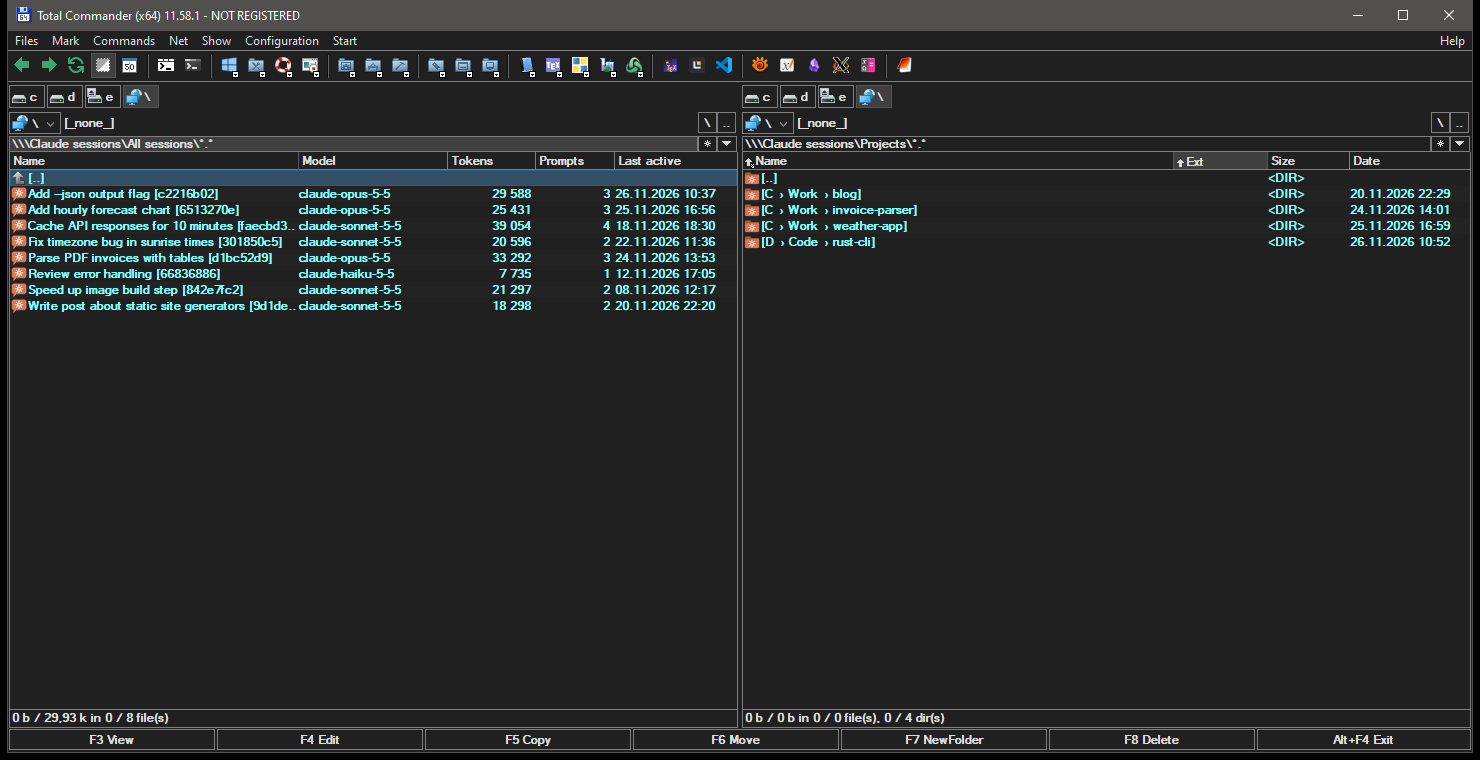
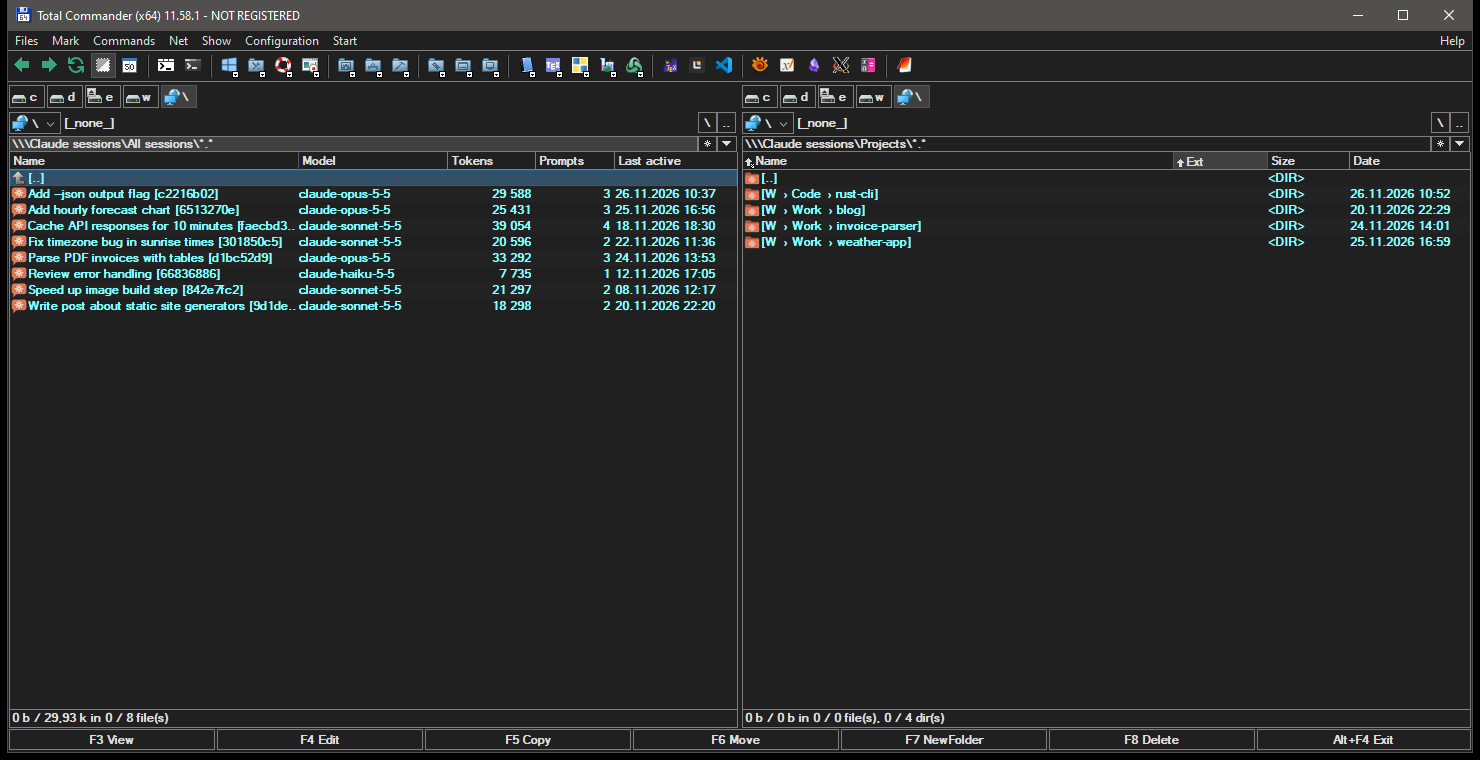
README: detailed file system section with screenshots (root, All sessions, Alt+Enter menu) and the Lister screenshot

diff --git a/README.md b/README.md
@@ -11,13 +11,27 @@
 Claude Code (Anthropic's CLI) saves every conversation as a `*.jsonl` file in its `projects` folder. Those files are large, unreadable by eye and have no names. **ClaudeSessions** makes them usable inside Total Commander. It is **one DLL that works as three plugins**: copy it as `.wlx64` (Lister), `.wfx64` (file system) or `.wdx64` (content). Total Commander loads only the functions it needs from each copy. 32-bit (`.wlx/.wfx/.wdx`) and 64-bit builds are included. Only system DLLs are used, no other software is required. Freeware (closed source).
 
 ### File system plugin "Claude sessions" (WFX)
-A virtual folder in *Network Neighborhood* (the "Network" button of the drive bar).
-- **Finds the Claude Code data by itself**: `CLAUDE_CONFIG_DIR`, a `Programs\Claude\data` layout, `%USERPROFILE%\.claude`, or `Path=` in the ini.
-- **Two folders**: **All sessions** (every session in one list; sort by date to see the latest first) and **Projects** with **one subfolder per project**, named after the real project path (`D › Projects › my-app`); inside it the sessions as `Session title [id].jsonl` (sort by date for the latest first).
-- **Columns**: prompts, model, date, size; plus Title, Started, LastActive, Project, Id and token counts (Tokens, OutputTokens, CacheReadTokens) for your own column sets (other content plugins work there too). Info is read quickly (head and tail of the file) and cached; the prompt count (needs the whole file) is calculated in the background.
-- **Enter = resume the session**: opens a terminal in the project folder and runs `claude --resume <session id>` (Windows Terminal if present, otherwise cmd). Configurable: terminal, launcher, or your own command line with `{cwd} {id} {claude}`. Enter can also be set to copy instead.
-- **F3** shows the conversation, **F5** copies the `.jsonl` (or a Markdown version with `ExportMd=1`), **Alt+Enter** opens a small menu: go to the real project folder, resume, properties.
-- **F8** moves a session to `sessions-trash` next to `projects` (restorable; Total Commander asks first). Nothing is deleted for good, renamed or moved otherwise.
+A virtual folder in *Network Neighborhood* (the "Network" button of the drive bar, or `\\\Claude sessions` in the command line). It **finds the Claude Code data by itself**: `CLAUDE_CONFIG_DIR`, a `Programs\Claude\data` layout, `%USERPROFILE%\.claude`, or `Path=` in the ini.
+
+**The root** has two folders with their own icons: **All sessions** and **Projects**. Inside **Projects** there is one folder per project, named after the real project path (`W › Work › weather-app` for `W:\Work\weather-app`); inside it the sessions of that project. Every session is shown as `Session title [first 8 characters of the id].jsonl`, so you see what a conversation was about instead of a bare id.
+
+![Root of the file system and the sessions of one project](https://raw.githubusercontent.com/sergiokapone/tc-claudesessions/main/screenshots/screenshot-fs-root-en.png)
+
+**All sessions** lists every session of every project in one place: sort by date (or by *Last active*) to find the latest conversation wherever it was started. The fields of the content plugin work as columns here (and so do other content plugins): below a column set with *Model*, *Tokens*, *Prompts* and *Last active*; the right panel shows the project folders.
+
+![All sessions with a custom column set; the Projects folder](https://raw.githubusercontent.com/sergiokapone/tc-claudesessions/main/screenshots/screenshot-fs-dark-en.png)
+
+Available fields: Title, Started, LastActive, Messages (prompts), Project, Model, Id, Tokens, OutputTokens, CacheReadTokens. Info is read quickly (head and tail of the file) and cached; the prompt and token counts need the whole file and are calculated in the background. To make a column set: *Configuration › Options › Custom columns › New*, then add fields from the `claudesessions` plugin. (Tip: with the *Ext* column hidden, Total Commander may show `..` in the first custom column; put a text column such as Model first.)
+
+**Keys inside the file system**
+- **Enter** resumes the session: opens a terminal in the project folder and runs `claude --resume <session id>` (Windows Terminal if present, otherwise cmd). Configurable: terminal, launcher, or your own command line with `{cwd} {id} {claude}`; Enter can also be set to copy instead.
+- **Alt+Enter** opens a small menu: **Go to the project folder** (the active panel jumps to the real folder the session was started in), **Resume the session**, **Properties** (title, project, model, dates, prompts, file).
+
+![Alt+Enter menu on a session](https://raw.githubusercontent.com/sergiokapone/tc-claudesessions/main/screenshots/screenshot-fs-menu-en.png)
+
+- **F3** shows the conversation in the Lister plugin (below).
+- **F5** copies the `.jsonl` (or a Markdown version with `ExportMd=1`).
+- **F8** moves a session to `sessions-trash` next to `projects`, in a subfolder per project (restorable; Total Commander asks first). Nothing is deleted for good, renamed or moved otherwise.
 
 ### Lister plugin (WLX)
 F3 on any `*.jsonl` shows the conversation in its own terminal-style window:
@@ -26,6 +40,8 @@ F3 on any `*.jsonl` shows the conversation in its own terminal-style window:
 - **R** cycles tool results (hide / short / full), **T** shows or hides the model's thinking, Ctrl+F / F7 search, N / P next and previous file;
 - right click: the same options, Copy, Select all and **Save as Markdown…**;
 - light/dark theme and language (English, Russian, Ukrainian) follow Total Commander. Big sessions (800 KB+) open in well under a second.
+
+![Lister plugin, dark theme](https://raw.githubusercontent.com/sergiokapone/tc-claudesessions/main/screenshots/screenshot-viewer-dark-en.png)
 
 ### Content plugin (WDX)
 Title, Started, LastActive, Messages (prompts), Project, Model, Id, Tokens, OutputTokens, CacheReadTokens for `*.jsonl` files in ordinary folders too (search, sort, columns, tooltips). The field names follow the language of Total Commander (English, Russian, Ukrainian).
